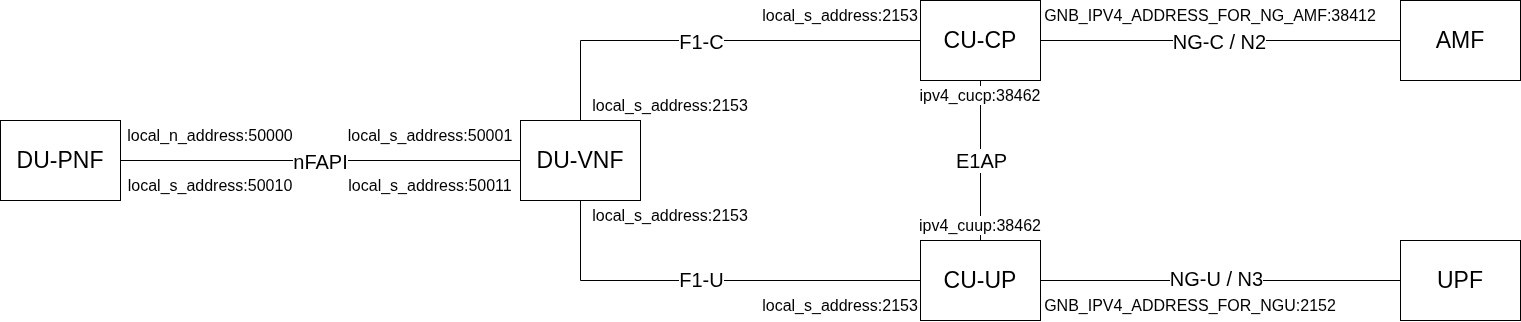
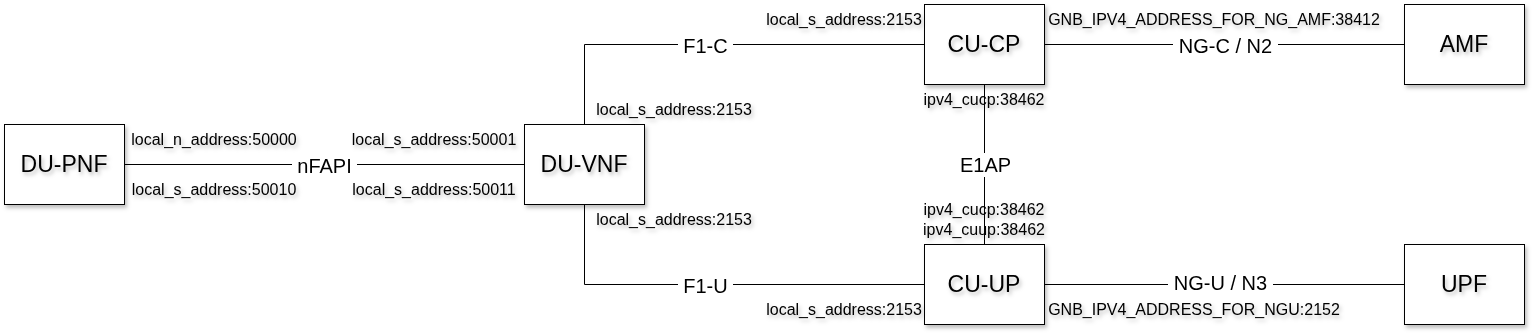
Update diagrams

diff --git a/ran/README.md b/ran/README.md
@@ -555,7 +555,7 @@ sudo ./nr-softmodem --rfsim -O ~/oai-workshops/ran/conf/gnb-du.sa.band78.106prb.
 echo ci trigger_f1_ho | nc 127.0.0.1 9090 && echo
 ```
 
-![F1 handover setup architecture and config](resources/ho-setup.png)
+![F1 handover setup architecture and config](resources/ho-arch.png)
 
 ---
 
